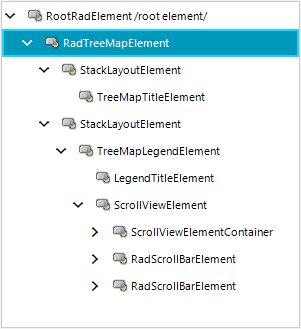
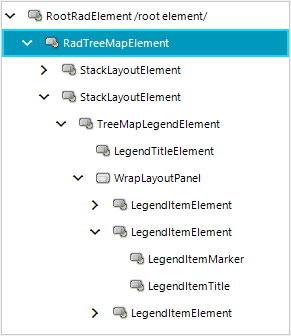
TreeMap - Finished Structure

diff --git a/controls/treemap/structure.md b/controls/treemap/structure.md
@@ -18,7 +18,14 @@ This article describes the inner structure and organization of the elements whic
 
 * **TreeMapDataItemGroup** - represents the group that holds the items.
 
-RadTreeMap doesn't use visual elements. It directly paints the data items considering the values and the layout [algorithm]({%slug treemap-layout-strategies%}).
+* **TreeMapLegendElement** - represents the legend in RadTreeMap.
+
+	* **LegendTitleElement** - represents the title of the legend.
+	* **LegendItemElement** - represents the item's legend element.
+		* **LegendItemTitle** - item's title.
+		* **LegendItemMarker** - item's marker.
+
+RadTreeMap doesn't use visual elements for its items. It directly paints the data items considering the values and the layout [algorithm]({%slug treemap-layout-strategies%}).
 
 ## Elements Hierarchy
 
